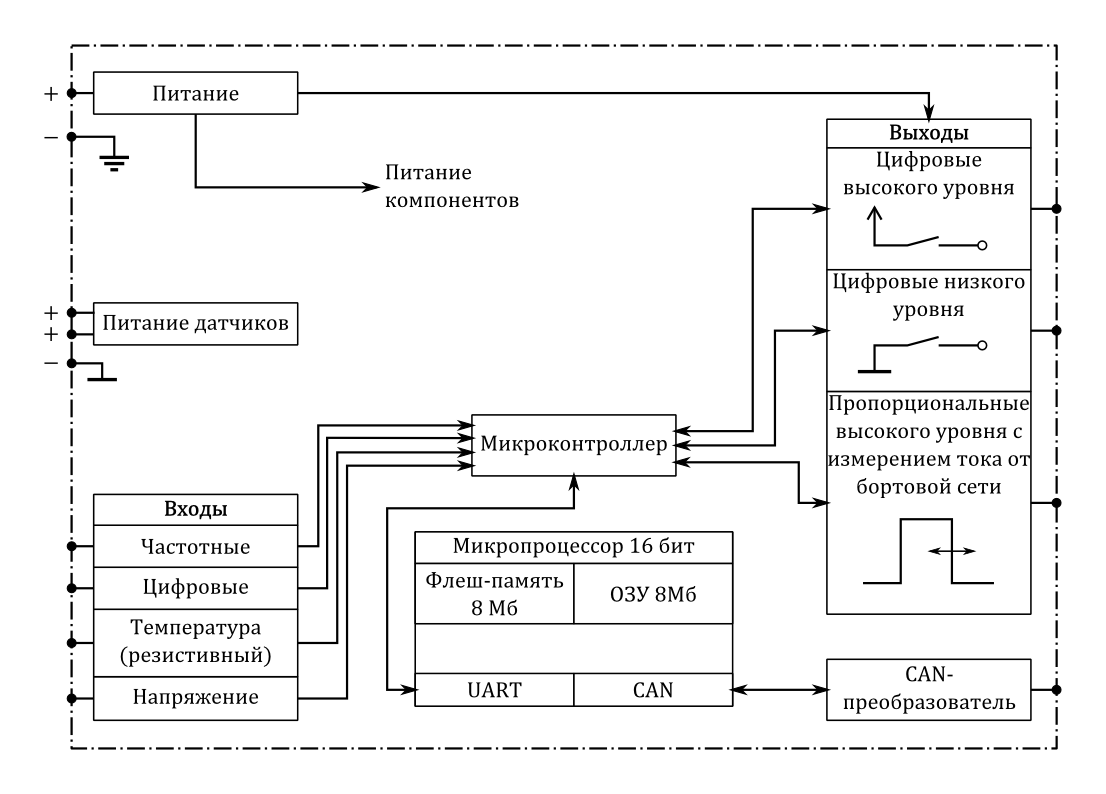
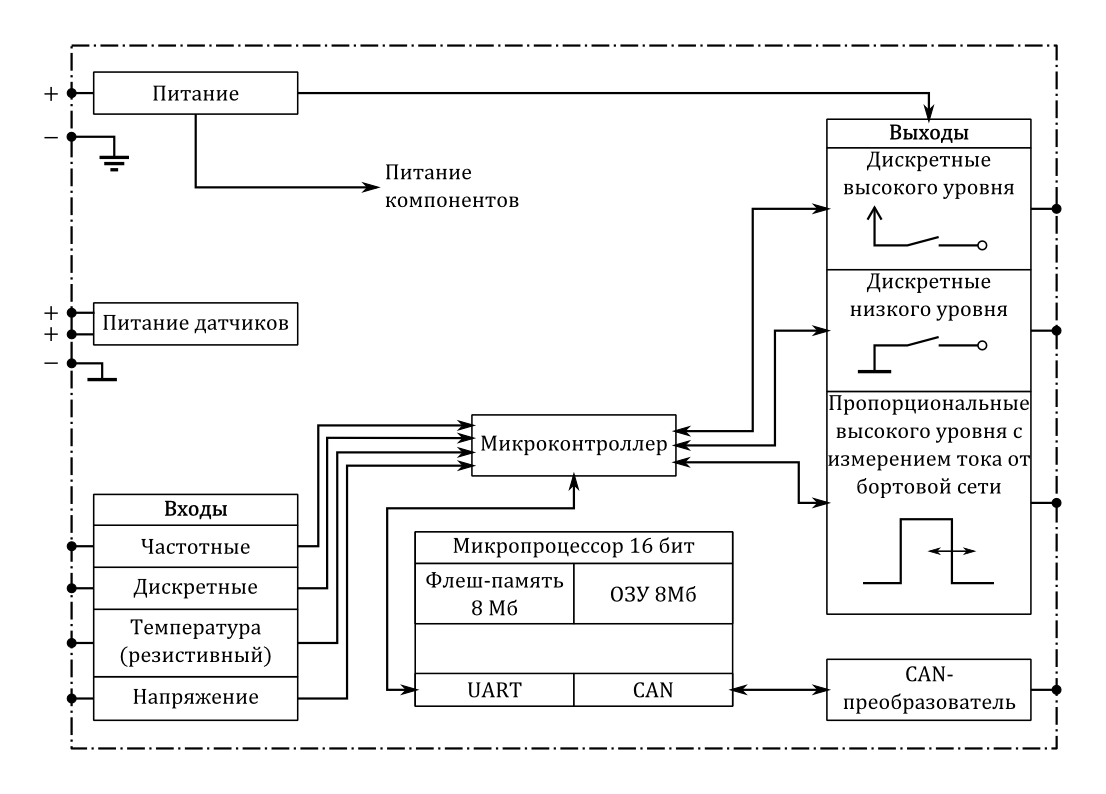
Добавляю описание

Changed region(s): [[0.7378, 0.3325, 0.9222, 0.4232], [0.7685, 0.1814, 0.8915, 0.2116], [0.123, 0.7254, 0.2459, 0.7557]]

diff --git a/README.rst b/README.rst
@@ -6,9 +6,33 @@
 Описание
 ========
 
-ЭБУ ГМП ЛБИЕ.453639.004 является перепрограммируемым электронным устройством
-управления на основе процессора SC186EX с тактовой частотой 96 МГц, рабочей
-памятью 8 Мб, памятью программ 8 Мб.
+ЭБУ ГМП ЛБИЕ.453639.004 (контроллер ГМП) используется для программного
+управления пропорциональными электрогидравлическими клапанами и контроля
+параметров работы гидромеханической трансмиссией в режиме замкнутого и
+разомкнутого управления.
+
+Контроллер ГМП был разработан специально для использования в транспортных
+средствах и удовлетворяет соответствующим требованиям окружающей среды,
+механической прочности, ударопрочности и вибрации, а также электромагнитной
+совместимости. Контроллер ГМП содержит мощный 16-битный микропроцессор и
+средства управления специальными устройствами.
+
+Устройство имеет аналоговые, резистивные, частотные входы, а также обратную
+связь по дискретным выходам. Входы защищены от перенапряжений и электрических
+наводок.
+
+Пропорциональные выходы используют широтно-импульсную модуляцию (ШИМ) и
+позволяют управлять электрогидравлическими клапанами с высокой точностью и
+минимальным гистерезисом.
+
+Дискретные выходы разработаны для прямого управления электромеханическими реле,
+лампами и выключателями.
+
+Контроллер ГМП имеет два канала CAN. Они могут использоваться для работы по
+протоколу J1939.
+
+В качестве среды программирования стандарта IEC 61131-3 используется
+CodeSYS 2.3 от 3S-Smart Software Solutions.
 
 
 Функциональная диаграмма
@@ -24,26 +48,26 @@
 ==========================
 
 
-.. table:: Основные технические характеристики ЭБУ ГМП
+.. list-table:: Основные технические характеристики ЭБУ ГМП
+  :header-rows: 1
 
-  +-------------------------------------------------------------+-----------------------------------+ 
-  | Название параметра                                          | Значение                          | 
-  +=============================================================+===================================+ 
-  | Допустимый диапазон рабочего напряжения, В                  | 8 - 32                            | 
-  +-------------------------------------------------------------+-----------------------------------+ 
-  | Потребляемый ток без нагрузки, A                            | 0,5                               | 
-  +-------------------------------------------------------------+-----------------------------------+
-  | Потребляемый ток с учетом включения всех электромагнитов, A | 7                                 | 
-  +-------------------------------------------------------------+-----------------------------------+
-  | Напряжение питания  контроллера                             | бортовая сеть 24 В по ГОСТ 3940   |
-  +-------------------------------------------------------------+-----------------------------------+
-  | Вид климатического исполнения                               | О1 по ГОСТ 15150                  |
-  +-------------------------------------------------------------+-----------------------------------+
-  | Диапазон рабочих температур окружающей среды                | -40...+85 °С                      |
-  +-------------------------------------------------------------+-----------------------------------+
+  * - Параметр
+    - Значение
+  * - Допустимый диапазон рабочего напряжения
+    - 8—32 В
+  * - Потребляемый ток без нагрузки
+    - 0,5 А
+  * - Потребляемый ток с учетом включения всех электромагнитов
+    - 7 А
+  * - Напряжение питания  контроллера
+    - Бортовая сеть 24 В по ГОСТ 3940
+  * - Вид климатического исполнения
+    - О1 по ГОСТ 15150
+  * - Диапазон рабочих температур окружающей среды
+    - −40...+85 °С
 
 
-Диагармма подключения
+Диаграмма подключения
 =====================
 
 
@@ -52,5 +76,5 @@
   Диаграмма подключения
 
 
-Обзор доступных функций
-=======================
+Обзор функций
+=============
